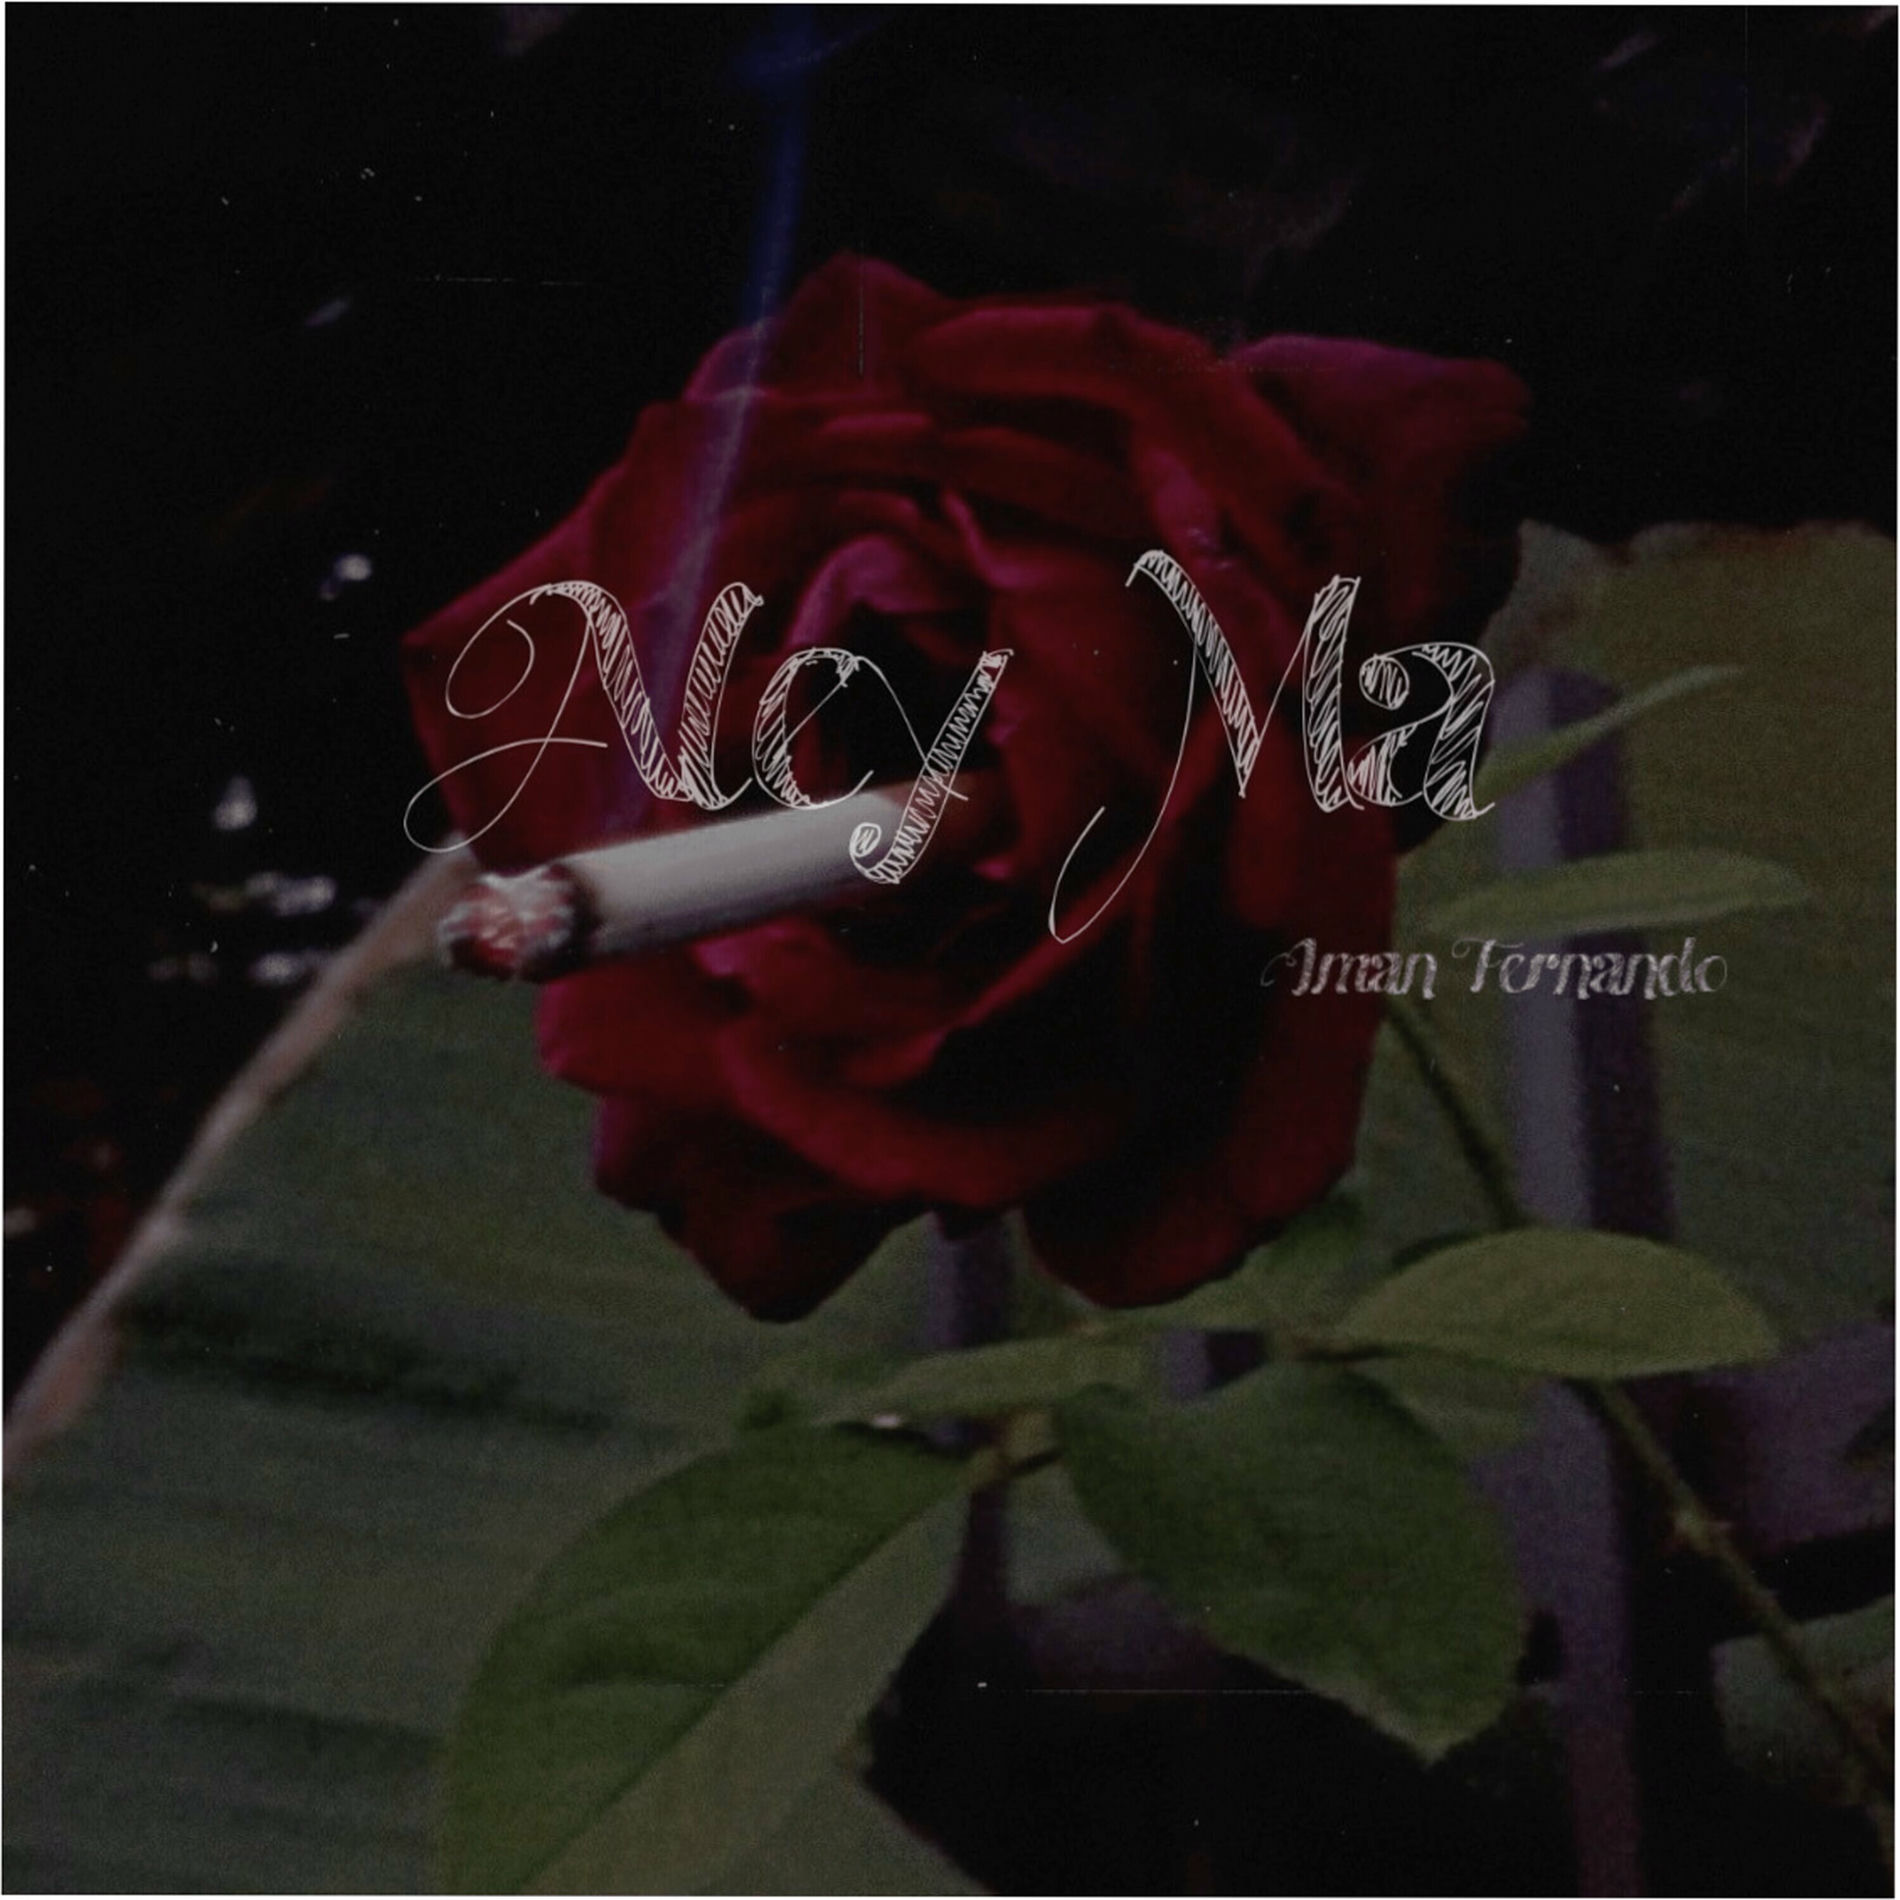
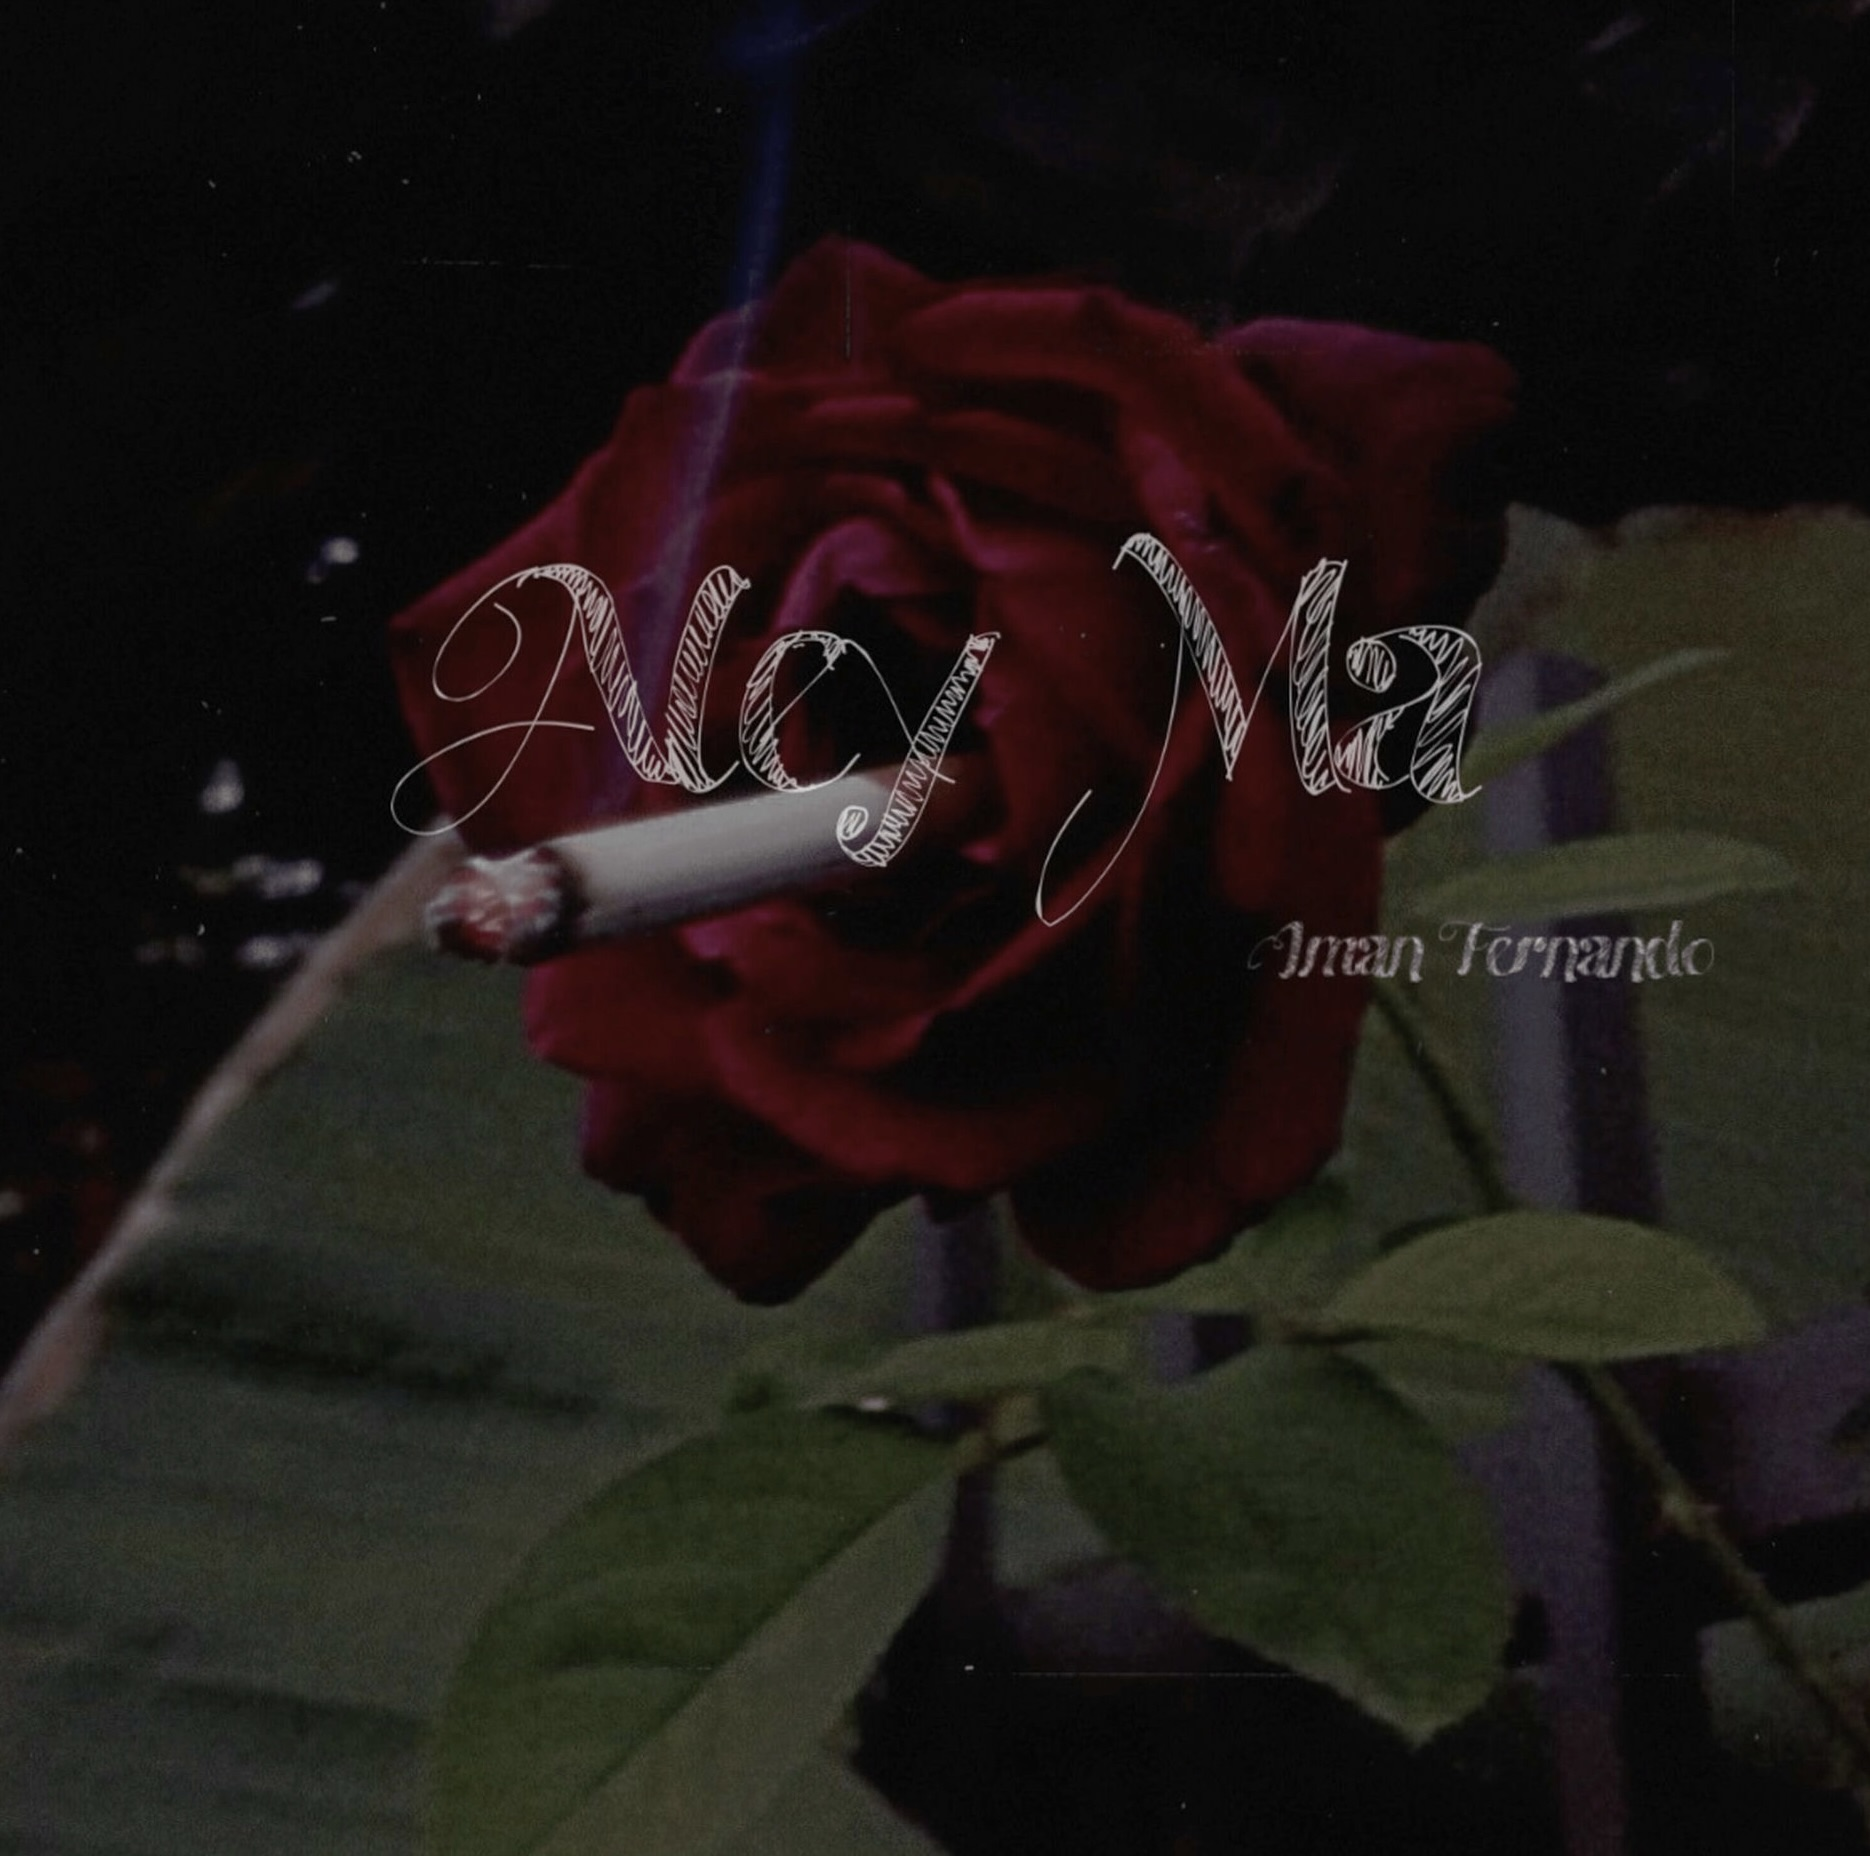
push

diff --git a/index.html b/index.html
@@ -178,6 +178,52 @@
                         </div>
                     </div>
                 </div>
+
+                <div class="track fade-in">
+                    <div class="track-image">
+                        <img src="images/album_arts/Apekathawa.jpg" alt="Ape Kathawa" class="album-art">
+                        <button class="track-play-btn" onclick="playTrack('Ape Kathawa', 'Ape Kathawa', 'Iman Fernando')">
+                        <svg viewBox="0 0 24 24" class="track-play-icon">
+                            <path d="M8 5v14l11-7z"/>
+                        </svg>
+                        <svg viewBox="0 0 24 24" class="track-pause-icon" style="display: none;">
+                            <path d="M6 19h4V5H6v14zm8-14v14h4V5h-4z"/>
+                        </svg>
+                        </button>
+                    </div>
+                    <div class="track-info">
+                        <h3 class="track-title">Ape Kathawa <br>(අපේ කතාව)</h3>
+                        <div class="track-meta">Single • 2022</div>
+                        <div class="track-links">
+                        <a href="https://open.spotify.com/track/6lX1eGnofQZP93NT2TlVDl" class="track-link" target="_blank">Spotify</a>
+                        <a href="https://music.apple.com/lk/album/ape-kathawa-single/1718064759" class="track-link" target="_blank">Apple Music</a>
+                        <a href="https://www.youtube.com/watch?v=n5wqK14KmUI" class="track-link" target="_blank">YouTube</a>
+                        </div>
+                    </div>
+                </div>
+
+                <div class="track fade-in">
+                    <div class="track-image">
+                        <img src="images/album_arts/Aley_ma.jpg" alt="Aley Ma" class="album-art">
+                        <button class="track-play-btn" onclick="playTrack('Aley Ma', 'Aley Ma', 'Iman Fernando')">
+                        <svg viewBox="0 0 24 24" class="track-play-icon">
+                            <path d="M8 5v14l11-7z"/>
+                        </svg>
+                        <svg viewBox="0 0 24 24" class="track-pause-icon" style="display: none;">
+                            <path d="M6 19h4V5H6v14zm8-14v14h4V5h-4z"/>
+                        </svg>
+                        </button>
+                    </div>
+                    <div class="track-info">
+                        <h3 class="track-title">Aley Ma <br>(ආලෙ මා)</h3>
+                        <div class="track-meta">Single • 2022</div> 
+                        <div class="track-links">
+                        <a href="https://open.spotify.com/track/67wXPUXuN0q3KWnVyEYzcZ?si=bcfde9ddba58420f" class="track-link" target="_blank">Spotify</a>
+                        <a href="https://music.apple.com/lk/song/aley-ma/1718054127" class="track-link" target="_blank">Apple Music</a>
+                        <a href="https://www.youtube.com/watch?v=ruEYCX4Bjss" class="track-link" target="_blank">YouTube</a>
+                        </div>
+                    </div>
+                </div>
             </div>
         </div>
     </section>

diff --git a/css/script.js b/css/script.js
@@ -48,6 +48,20 @@
                 symbol: '◆',
                 image: 'images/album_arts/Ralu_Nethu.jpg'
             },
+            'Ape_kathawa': {
+                src: 'music/Ape_kathawa.mp3',
+                title: 'Ape Kathawa',
+                artist: 'Iman Fernando',
+                symbol: '◊',
+                image: 'images/album_arts/Apekathawa.jpg'
+            },
+            'Aley_Ma': {
+                src: 'music/Aley_Ma.mp3',
+                title: 'Aley Ma',
+                artist: 'Iman Fernando',
+                symbol: '◊',
+                image: 'images/album_arts/Aley_Ma.jpg'
+            },
             'Chaarikawak': {
                 src: 'music/Charikawak.mp3',
                 title: 'Charikawak',
